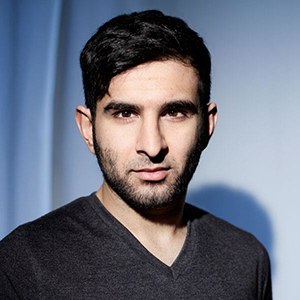
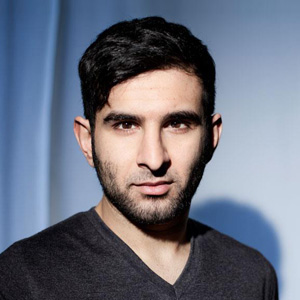
update images

diff --git a/index.html b/index.html
@@ -49,7 +49,7 @@
                     <span class="icon-bar"></span>
                     <span class="icon-bar"></span>
                 </button>
-                <a class="navbar-brand page-scroll" href="#page-top">Pure Labs</a>
+                <a class="navbar-brand page-scroll" href="#page-top"><img class="pl-logo" src="img/pl-logo.png">Pure Labs</a>
             </div>
 
             <!-- Collect the nav links, forms, and other content for toggling -->
@@ -325,7 +325,7 @@
                 </div>
                 <div class="col-sm-4">
                     <div class="team-member">
-                        <img src="http://placekitten.com/300/300" class="img-responsive img-circle" alt="">
+                        <img src="img/team/vitus-neumayer.jpg" class="img-responsive img-circle" alt="">
                         <h4>Vitus Neumayer</h4>
                         <p class="text-muted">Lead Designer</p>
                         <ul class="list-inline social-buttons">
@@ -485,7 +485,7 @@
                         <div class="modal-body">
                             <h2>Project Heading</h2>
                             <p class="item-intro text-muted">Lorem ipsum dolor sit amet consectetur.</p>
-                            <img class="img-responsive img-centered" src="img/portfolio/startup-framework-preview.png" alt="">
+                            <img class="img-responsive img-centered" src="img/portfolio/cutterslounge-mobile-readmore.png" alt="">
                             <p><a href="http://designmodo.com/startup/?u=787">Startup Framework</a> is a website builder for professionals. Startup Framework contains components and complex blocks (PSD+HTML Bootstrap themes and templates) which can easily be integrated into almost any design. All of these components are made in the same style, and can easily be integrated into projects, allowing you to create hundreds of solutions for your future projects.</p>
                             <p>You can preview Startup Framework <a href="http://designmodo.com/startup/?u=787">here</a>.</p>
                             <button type="button" class="btn btn-primary" data-dismiss="modal"><i class="fa fa-times"></i> Close Project</button>
@@ -512,7 +512,7 @@
                             <!-- Project Details Go Here -->
                             <h2>Project Name</h2>
                             <p class="item-intro text-muted">Lorem ipsum dolor sit amet consectetur.</p>
-                            <img class="img-responsive img-centered" src="img/portfolio/treehouse-preview.png" alt="">
+                            <img class="img-responsive img-centered" src="img/portfolio/cutterslounge-app-readmore.png" alt="">
                             <p>Treehouse is a free PSD web template built by <a href="https://www.behance.net/MathavanJaya">Mathavan Jaya</a>. This is bright and spacious design perfect for people or startup companies looking to showcase their apps or other projects.</p>
                             <p>You can download the PSD template in this portfolio sample item at <a href="http://freebiesxpress.com/gallery/treehouse-free-psd-web-template/">FreebiesXpress.com</a>.</p>
                             <button type="button" class="btn btn-primary" data-dismiss="modal"><i class="fa fa-times"></i> Close Project</button>

diff --git a/less/agency.less b/less/agency.less
@@ -750,3 +750,13 @@ body {
     font-size: 50px;
     padding: 50px;
 }
+
+.pl-logo {
+  width: 45px;
+  margin-right: 10px;
+}
+
+.navbar-brand {
+  padding: 0;
+
+}
